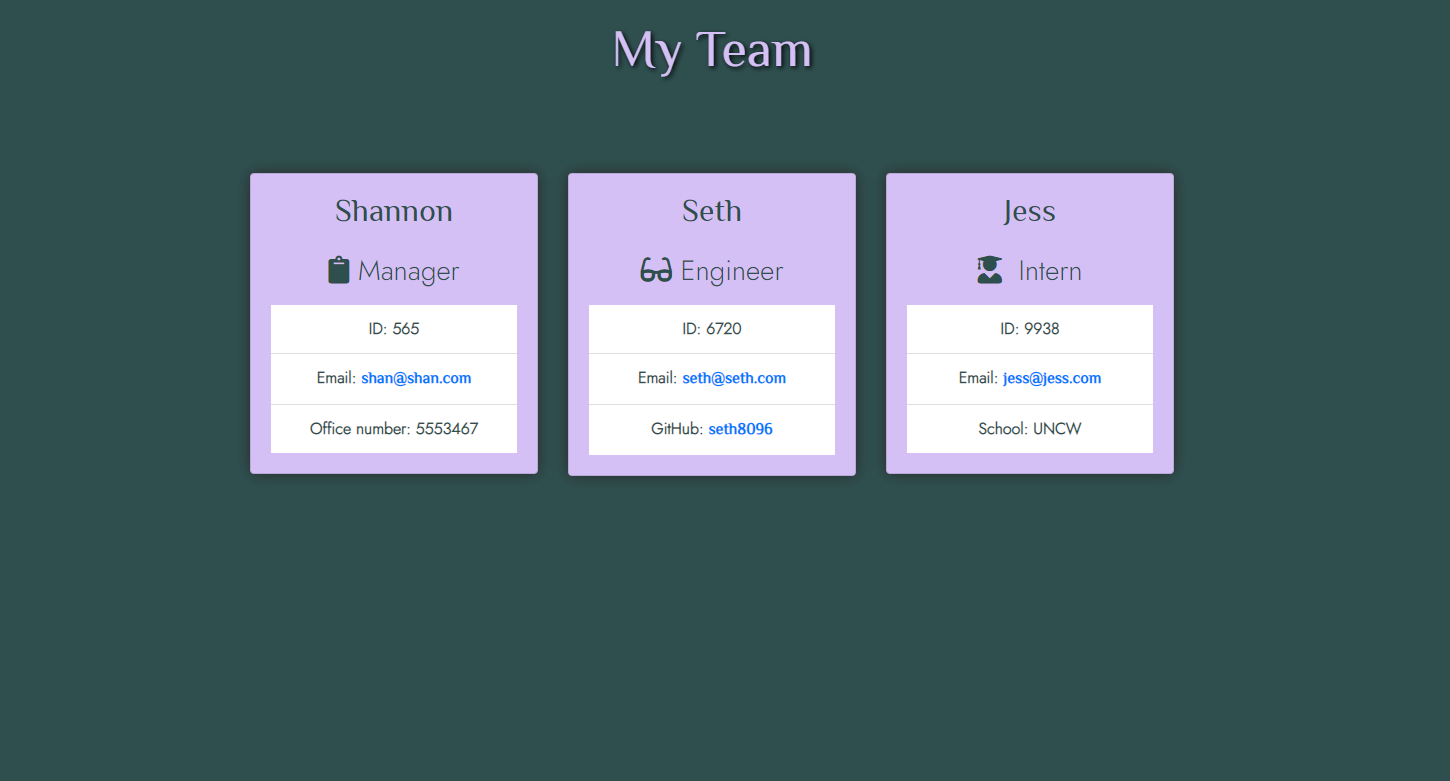
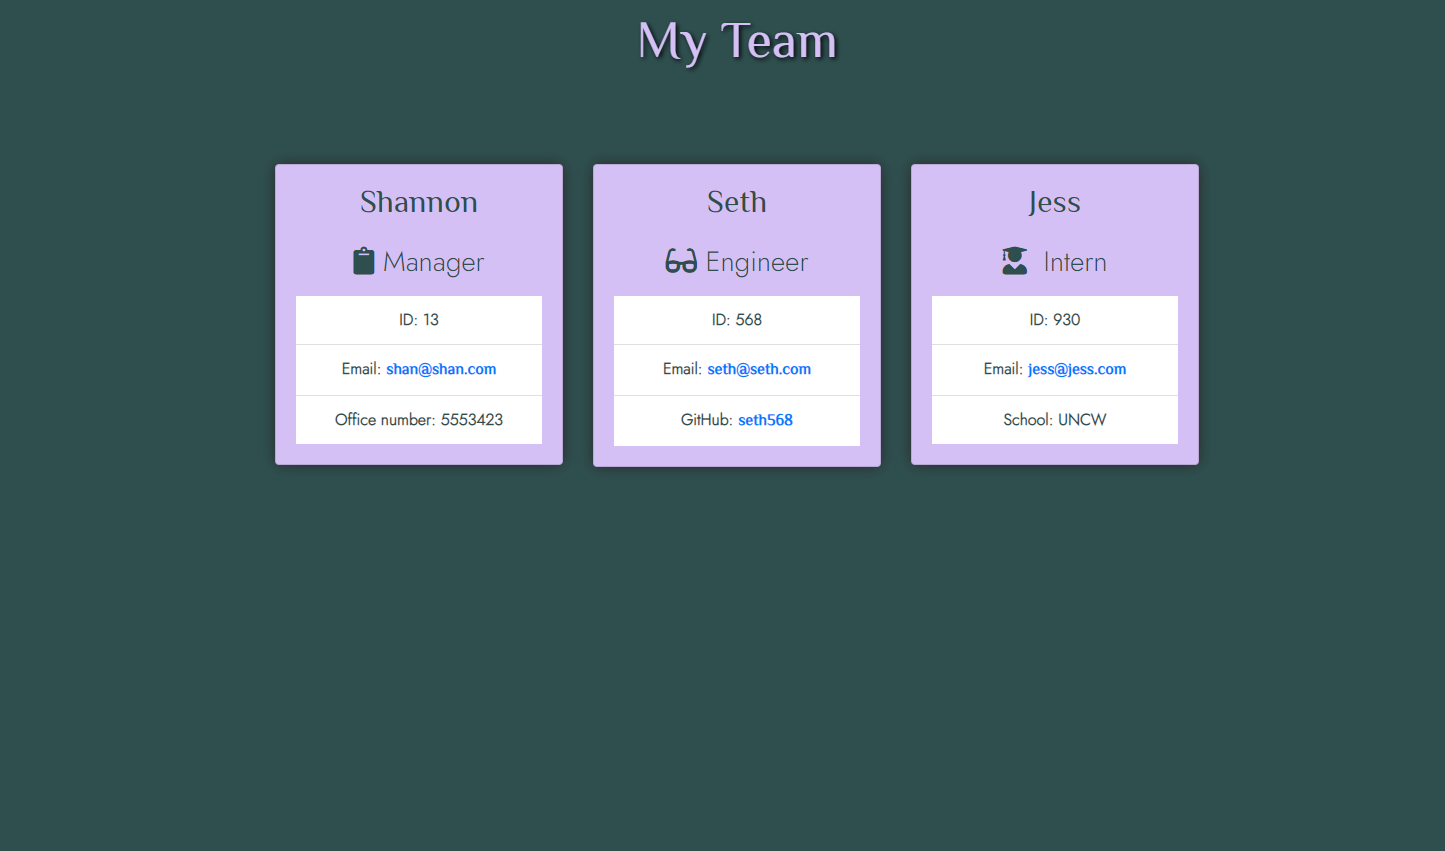
updating readme

Changed region(s): [[0.1557, 0.1844, 0.8408, 0.6146], [0.4048, 0.0307, 0.5917, 0.0922]]

diff --git a/output/team.html b/output/team.html
@@ -28,11 +28,11 @@
       <h2 class="card-title">Shannon</h2>
       <h3 class="card-text"><i class="fas fa-clipboard"></i> Manager</h3>
       <ul class="list-group list-group-flush">
-        <li class="list-group-item">ID: 565</li>
+        <li class="list-group-item">ID: 13</li>
         <li class="list-group-item">
           Email: <a href="mailto:shan@shan.com">shan@shan.com</a>
         </li>
-        <li class="list-group-item">Office number: 5553467</li>
+        <li class="list-group-item">Office number: 5553423</li>
       </ul>
     </div>
   </div>
@@ -45,17 +45,17 @@
       <h2 class="card-title">Seth</h2>
       <h3 class="card-text"><i class="fas fa-glasses"></i> Engineer</h3>
       <ul class="list-group list-group-flush">
-        <li class="list-group-item">ID: 6720</li>
+        <li class="list-group-item">ID: 568</li>
         <li class="list-group-item">
           Email: <a href="mailto:seth@seth.com">seth@seth.com</a>
         </li>
         <li class="list-group-item">
           GitHub:
           <a
-            href="https://github.com/seth8096"
+            href="https://github.com/seth568"
             target="_blank"
             rel="noopener noreferrer"
-            >seth8096</a
+            >seth568</a
           >
         </li>
       </ul>
@@ -72,7 +72,7 @@
         <i class="fas fa-user-graduate mr-2"></i> Intern
       </h3>
       <ul class="list-group list-group-flush">
-        <li class="list-group-item">ID: 9938</li>
+        <li class="list-group-item">ID: 930</li>
         <li class="list-group-item">
           Email: <a href="mailto:jess@jess.com">jess@jess.com</a>
         </li>

diff --git a/README.md b/README.md
@@ -24,12 +24,12 @@ This application is a Node.js command-line application that prompts the user to 
   
 
 ## Demonstration
-[Click here for Demo](https://drive.google.com/file/d/1NWh1fGOxgEesTAuijxn3xwcl8CoD7iGa/view)
+[Click here for Demo](https://drive.google.com/file/d/1uwS60j1MIAKwZXW2ZlMwv7PyCi6x9sVa/view)
 
 
 ## Screenshots
 <img src="./assets/images/screenshot.png">
-<img src="./assets/images/terminal">
+<img src="./assets/images/terminal.png">
 
 
 ## Installation
@@ -66,7 +66,7 @@ This project was made with help from:
 ## Github
 Below is the link to the github repository for this project
 
-<https://github.com/jessgreene9/README-generator>
+<https://github.com/jessgreene9/team-profile-generator>
 
 ## Contact
 
